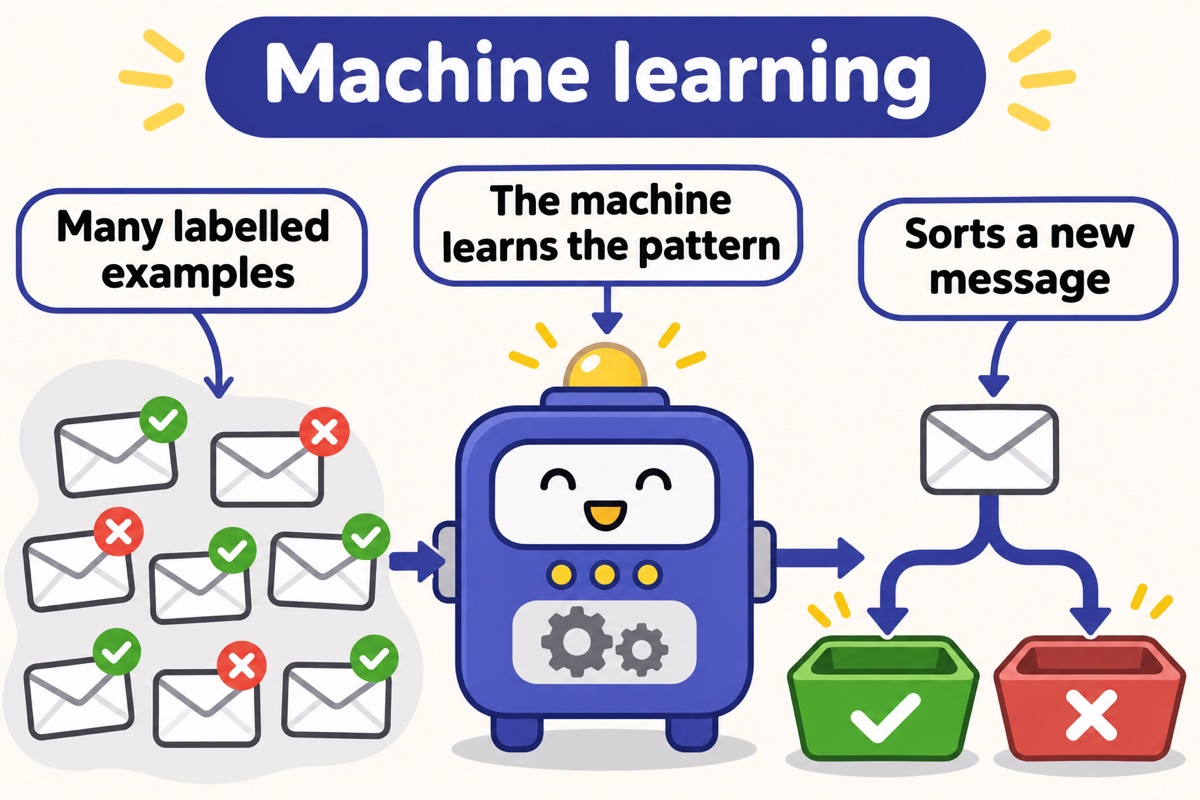
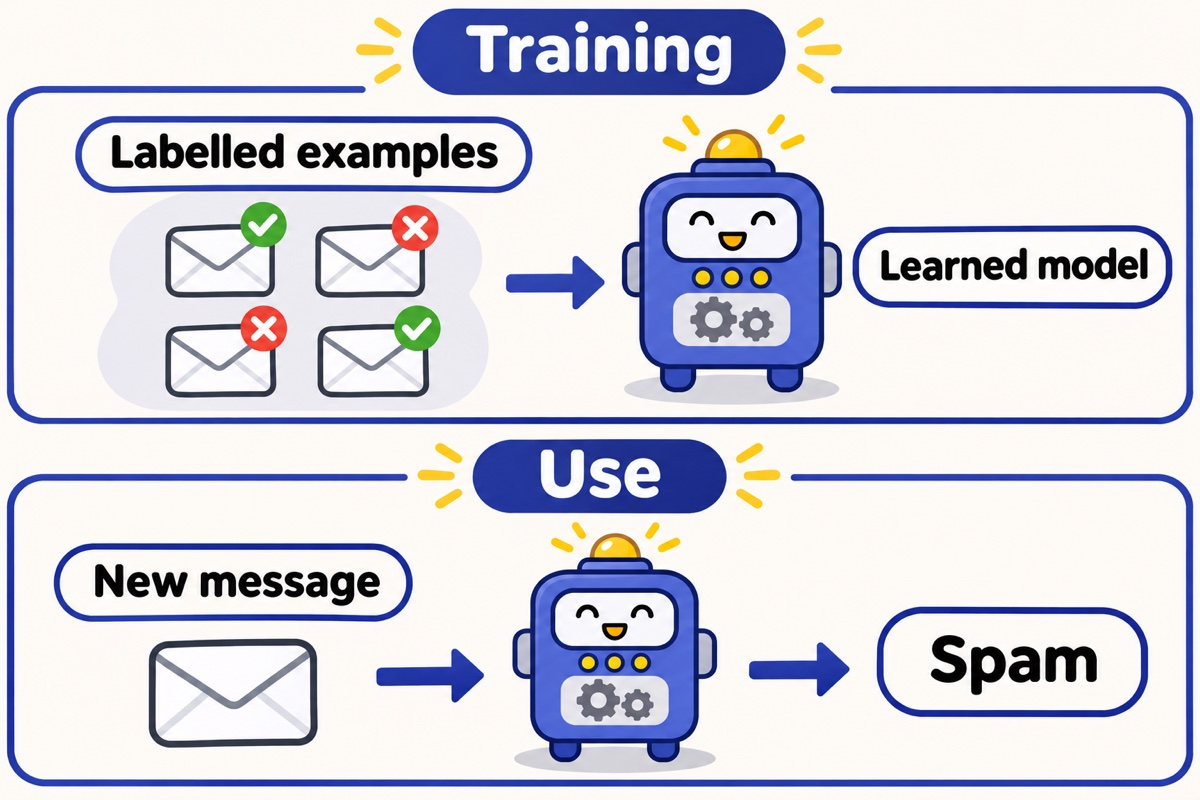
Clarify machine learning illustration

diff --git a/src/lessons/genai-basics/c1-01/Lesson.tsx b/src/lessons/genai-basics/c1-01/Lesson.tsx
@@ -123,17 +123,27 @@ export default function Lesson() {
       </section>
       <section id="ml">
         <h2 tabIndex={-1}>Machine learning: learning from examples.</h2>
+        <p>
+          In <strong>machine learning</strong>, the system learns a pattern from
+          examples, so a person does not have to write a rule for every case.
+          People still design how it learns. The system adjusts its internal
+          values to improve its performance on the examples.
+        </p>
+        <p>
+          In this simplified example, <strong>training</strong> uses messages
+          labelled spam or not to fit a model. The{" "}
+          <strong>learned model</strong> is the result of that training.
+        </p>
+        <p>
+          Later, when we <strong>use</strong> that same model, a new message
+          goes into it and it predicts a label, such as spam. The prediction can
+          be wrong; using the model here does not train it again.
+        </p>
         <Figure
           src="/lessons/c1-01/ai-ml.jpg"
-          alt="Labelled example envelopes flow into a machine that then sorts a new message into a ticked or crossed tray. Labels: Machine learning; Many labelled examples; The machine learns the pattern; Sorts a new message."
-          caption="Show the system many examples and let it find the pattern."
+          alt="Training uses Labelled examples to fit a Learned model. Use sends a New message into the same model, which predicts Spam."
+          caption="A simplified example: training fits the model; later, a new message goes in and a predicted label comes out."
         />
-        <p>
-          In <strong>machine learning</strong>, the system learns the pattern
-          from examples, so a person does not have to write a rule for every
-          case. People still design how it learns. The system adjusts its own
-          internal values until it does well on the examples.
-        </p>
         <div className={styles.example}>
           <strong>In Postbox</strong>
           <p>

diff --git a/tests/web/c1-01.spec.ts b/tests/web/c1-01.spec.ts
@@ -35,6 +35,10 @@ for (const width of [390, 768, 1440])
           section.getByRole("img", { name: /Nested rings/ }),
         ).toHaveCount(1);
       }
+      await expect(page.locator("#ml img")).toHaveAttribute(
+        "alt",
+        /Labelled examples.*Learned model.*New message.*Spam/,
+      );
       await expect(
         page
           .locator("#dl")

diff --git a/docs/lesson-reports/genai-basics/c1-01.md b/docs/lesson-reports/genai-basics/c1-01.md
@@ -5,9 +5,9 @@
 - **Module / lesson ID:** genai-basics / c1-01
 - **Branch and PR:** see PR description
 - **Head commit:** see PR description
-- **webStatus (read from `meta.json` at the reviewed commit):** draft
-- **Status changed by this work:** no (new lesson, starts as draft)
-- **Date and author:** 2026-11-08, Claude Code (Sonnet 5.5)
+- **webStatus (read from `meta.json` at the reviewed commit):** published
+- **Status changed by this work:** no (the existing published status is preserved)
+- **Date and author:** Original lesson 2026-11-08; illustration revision 2026-11-09, Codex.
 
 ## 2. Curriculum alignment
 
@@ -120,3 +120,27 @@ Screenshots were temporary and are not saved in the repo.
 
 - **Look at first:** the `LessonFrame` and `Course` refactor (shared code), then the concept text in `Lesson.tsx` and the sorter items in `Sorter.tsx`.
 - **Questions for the owner:** is a separate `/course/chapter-1` route the right shape for chapter navigation, or should chapters share one parameterised route later?
+
+
+## 10. Machine-learning illustration revision (2026-11-09)
+
+The user asked to correct an ambiguous arrow in the machine-learning image. The previous image could suggest that the model generated the incoming message. The replacement shows labelled examples used in training and, separately, a new message entering the same learned model to produce one predicted label. The prose and caption scope this to the Postbox example and note that a prediction can be wrong. The existing sorter, quiz, section order and published status remain unchanged.
+
+**Files changed:** `public/lessons/c1-01/ai-ml.jpg`, `src/lessons/genai-basics/c1-01/Lesson.tsx`, `tests/web/c1-01.spec.ts`, and this report. No shared code was modified.
+
+**Fidelity:** Postbox, its messages and the predicted label are illustrative. The image depicts a simplified supervised example, not every form of machine learning. Training/use is scoped to this example; using the model in this depicted step does not train it again. No new unverified factual claims were introduced.
+
+**Plan review:** An independent reviewer asked for visibly matching model icons, one output rather than two bins, an explicit possibility of error, and clarity that labelled examples represent this simplified scenario. These are incorporated in the image and surrounding prose.
+
+**Review log for this substantial visual revision:**
+
+| Gate | Round | Reviewer | Finding | Action |
+| --- | --- | --- | --- | --- |
+| Plan | 1 | Independent agent | Clarify same model, training/use, prediction error, one output and scope. | Two labelled stages; single output; prose supplies scope and error caveat. |
+| Content | 1 | Same independent agent | Alt text could imply an already trained model simply consumes examples; existing training sentence implied success. | Alt says examples fit the model; wording says training aims to improve performance. |
+| Content | 2 | Same independent agent | No validated P2+ findings. | Clean. |
+| Content | 3 | Same independent agent | No validated P2+ findings. | Clean. |
+
+The visual revision started a new content-review count: three rounds, ending with two clean rounds. Gate checklist: [x] plan review handled [x] checks pass [x] content review done [x] all rounds logged. Not stacked.
+
+**Revision verification:** `npm run format:check`, `npm run typecheck`, and `TEST_PORT=3121 npm test` passed after the wording changes. The suite ran 7 mockup tests, 115 Playwright tests and production gating; the already-published `/learn/genai-basics/c1-01` returned 200. The existing c1-01 spec exercises all six 390/768/1440 light/dark combinations, section order, image rendering and alt text, sorter behavior, keyboard, theme persistence, quiz and page overflow. Section screenshots were inspected at all six viewport/theme combinations; `/tmp/c1-01-ml-{390,768,1440}-{light,dark}-nov09.png` are temporary. Those screenshots preceded the final minor wording correction; image and layout remained unchanged. Manual screen-reader, physical-device and other-browser checks were not performed. Historical verification and publication statements above describe the original work; this section and the current status at the top govern the revision.
